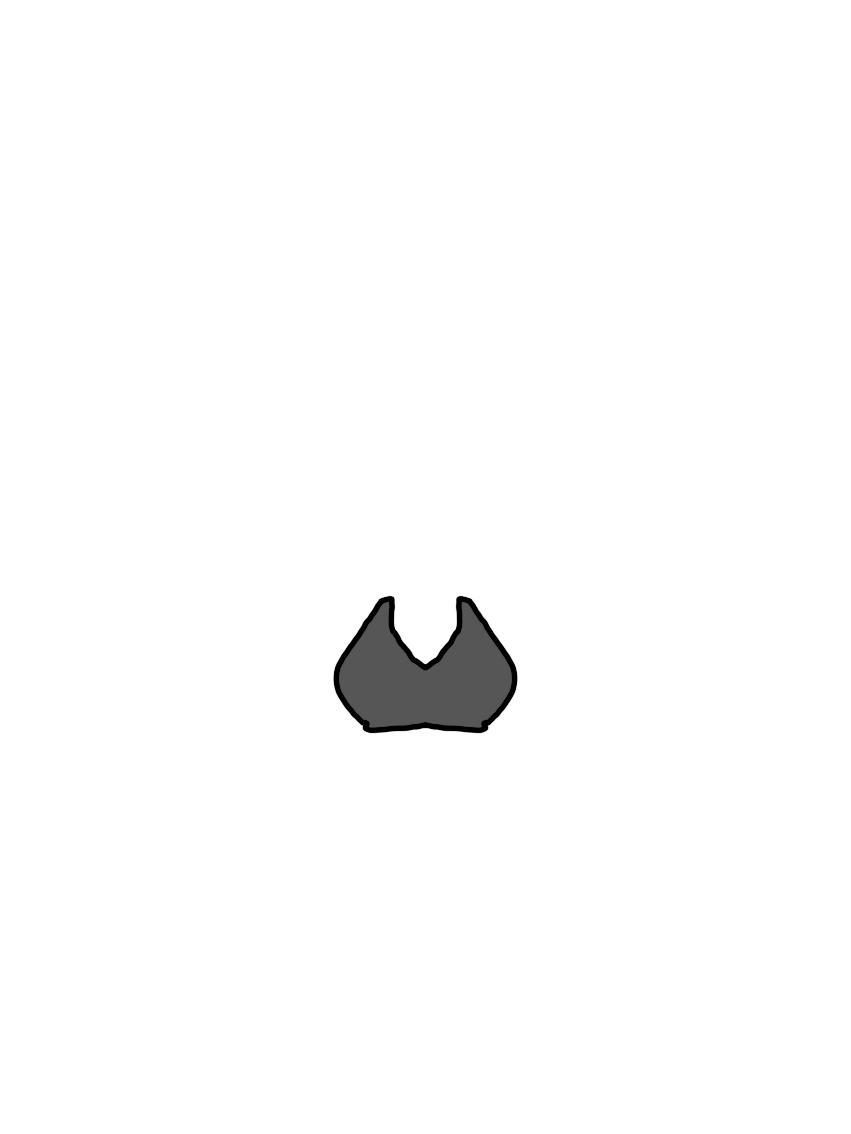
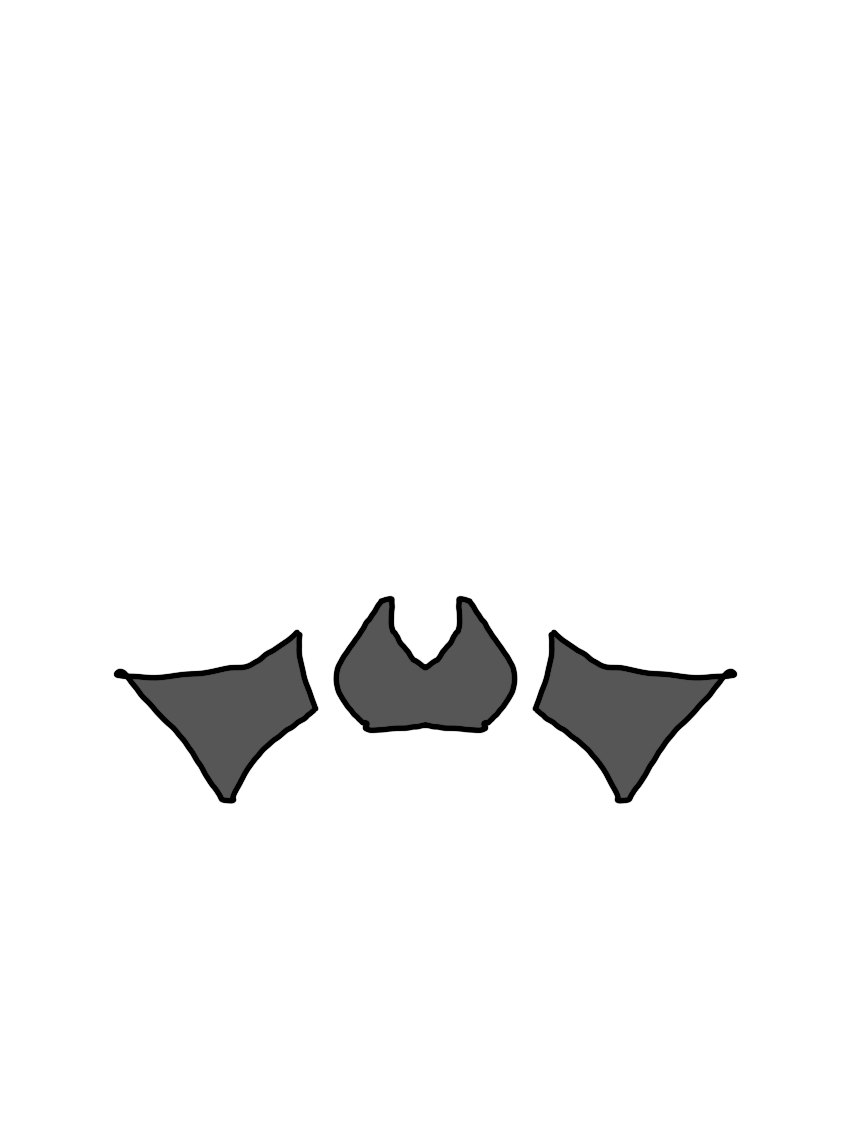
Sleeves are part of top1: merge them in; stiff garments' sleeves follow the arms
A stiff garment now stays whole only over the chest: whatever of it lies on the
arms, legs or head still goes with them. The detached sleeves are merged into
top1.png and the separate Sleeves tab is removed.

Claude-Session: https://claude.ai/code/session_01Nuvr9RnhKbz2VcSyLWFjqp

Changed region(s): [[0.611, 0.5556, 0.8555, 0.7099], [0.1222, 0.5556, 0.3666, 0.7099]]

diff --git a/ragdoll.js b/ragdoll.js
@@ -598,7 +598,10 @@
     // blow (optional): the skirts and dresses that blow up while falling; below
     // their waistband (blowFrom, source px, or BLOW_BAND under their top) they
     // become the `skirt` part.
-    buildArt(imgs, cloth, cs, hang, over, under, blow, blowFrom) {
+    // stiff (optional): garments kept whole over the chest (a top): over the
+    // chest they go on the body's over-the-chest layer, but their sleeves and
+    // anything else on the arms, legs or head still go with those parts.
+    buildArt(imgs, cloth, cs, hang, over, under, blow, blowFrom, stiff) {
       const CW = Math.round(CFG.SRC_W * cs), CH = Math.round(CFG.SRC_H * cs);
       const mk = (w, h) => { const c = document.createElement('canvas'); c.width = Math.max(1, w); c.height = Math.max(1, h); return c; };
       const mkRead = (w, h) => { const c = mk(w, h); return { c, x: c.getContext('2d', { willReadFrequently: true }) }; };
@@ -734,6 +737,14 @@
               w.x.globalCompositeOperation = 'destination-out';
               w.x.drawImage(blowMask, 0, 0);
             }
+            if (stiff && !part.offset) {
+              const t = mkRead(CW, CH);
+              t.x.drawImage(stiff, 0, 0);
+              t.x.globalCompositeOperation = 'destination-in';
+              shape(t.x, part.region);
+              w.x.globalCompositeOperation = 'source-over';
+              w.x.drawImage(t.c, 0, 0);
+            }
           } else if (part.rest) {
             // The body takes whatever no other part claimed...
             w.x.globalCompositeOperation = 'destination-out';
@@ -814,9 +825,21 @@
 
       // The body's over-the-chest layer: a copy of the body's frame drawn after
       // the chest, so it moves with the body but covers the chest.
-      if (over && bboxOf(over.getContext('2d', { willReadFrequently: true }))) {
+      let overAll = over;
+      if (stiff) {
+        // A stiff garment's share: all of it but what the arms, legs and head took.
+        const t = mkRead(CW, CH);
+        if (over) t.x.drawImage(over, 0, 0);
+        const st = mkRead(CW, CH);
+        st.x.drawImage(stiff, 0, 0);
+        st.x.globalCompositeOperation = 'destination-out';
+        for (const o of regionParts) if (!o.offset) shape(st.x, o.region);
+        t.x.drawImage(st.c, 0, 0);
+        overAll = t.c;
+      }
+      if (overAll && bboxOf(overAll.getContext('2d', { willReadFrequently: true }))) {
         const o = mkRead(CW, CH);
-        o.x.drawImage(over, 0, 0);
+        o.x.drawImage(overAll, 0, 0);
         const b = bboxOf(o.x);
         const c = mk(b.x1 - b.x0, b.y1 - b.y0);
         c.getContext('2d').drawImage(o.c, -b.x0, -b.y0);

diff --git a/pet_desktop.js b/pet_desktop.js
@@ -226,7 +226,7 @@
     // the legs: only its shape is needed, the colours come from `cloth`.
     // Plus each garment's optional _over / _under layers (see outfit_system.js).
     const sized = () => { const c = document.createElement('canvas'); c.width = cloth.width; c.height = cloth.height; return c; };
-    const hang = sized(), over = sized(), under = sized(), blow = sized();
+    const hang = sized(), over = sized(), under = sized(), blow = sized(), stiff = sized();
     let blowFrom = Infinity;
     if (typeof window.drawOutfitOverlay === 'function') {
       window.drawOutfitOverlay(cloth.getContext('2d'), 'stand', 0, 0, cloth.width, cloth.height, it => !it.stiff && !it.blows);
@@ -238,11 +238,11 @@
         return true;
       });
       window.drawOutfitOverlay(over.getContext('2d'), 'stand', 0, 0, cloth.width, cloth.height, null, 'over');
-      // Stiff garments go whole onto the body, over the chest, like _over layers.
-      window.drawOutfitOverlay(over.getContext('2d'), 'stand', 0, 0, cloth.width, cloth.height, it => it.stiff);
+      // Stiff garments stay whole over the chest (their sleeves still follow the arms).
+      window.drawOutfitOverlay(stiff.getContext('2d'), 'stand', 0, 0, cloth.width, cloth.height, it => it.stiff);
       window.drawOutfitOverlay(under.getContext('2d'), 'stand', 0, 0, cloth.width, cloth.height, null, 'under');
     }
-    pet.body.buildArt(pet.partImgs, cloth, cs, hang, over, under, blow, isFinite(blowFrom) ? blowFrom : null);
+    pet.body.buildArt(pet.partImgs, cloth, cs, hang, over, under, blow, isFinite(blowFrom) ? blowFrom : null, stiff);
   }
 
   // Feed the scene's state to the skeleton.

diff --git a/outfit_config.js b/outfit_config.js
@@ -62,7 +62,6 @@ window.OUTFIT_CONFIG = {
     { key: "bodysuit",          label: "Bodysuit",                  z: 128 },
     { key: "shoes",             label: "Shoes",                     z: 90  },
     { key: "glove",             label: "Glove",                     z: 140 },
-    { key: "sleeves",           label: "Sleeves",                   z: 145 },
     { key: "bunnysuitbow",      label: "Bunnysuit Bow",             z: 150 },
     { key: "glasses",           label: "Glasses",                   z: 160 },
     { key: "ears",              label: "Ears",                      z: 170 },
@@ -82,7 +81,6 @@ window.OUTFIT_CONFIG = {
     bodysuit:          ["bodysuit1"],
     shoes:             ["shoes1"],
     glove:             ["glove1"],
-    sleeves:           ["sleeves1"],
     bunnysuitbow:      ["bunnysuitbow1"],
     glasses:           ["glasses1"],
     ears:              ["ears1"],

diff --git a/clothing_template/README.md b/clothing_template/README.md
@@ -42,7 +42,8 @@ Tips:
 - **Stiff garments.** A garment that covers the chest in one solid piece (a crop top, a tank
   top) would tear where the bouncing chest meets the body. Mark it `stiff: true` in
   `outfit_config.js` (`{ id: "top1", stiff: true }`) and it stays whole on the body,
-  over the chest. The chest doesn't bounce under it.
+  over the chest. The chest doesn't bounce under it. Its sleeves (anything in the blue arm
+  areas) still move with the arms, so draw a top and its sleeves together in one file.
 - The chest wins over the arms: anything inside the pink circles only ever moves with the chest.
 - Give garments an outline (black, like the body art). Colour tinting in the Dress Up panel
   works best on light/white garments.
@@ -63,7 +64,6 @@ so each one shows up in Dress Up as soon as the file exists:
 | Bodysuit | `bodysuit1.png` |
 | Shoes | `shoes1.png` |
 | Glove | `glove1.png` |
-| Sleeves | `sleeves1.png` |
 | Bunnysuit Bow | `bunnysuitbow1.png` |
 | Glasses | `glasses1.png` |
 | Ears | `ears1.png` |
